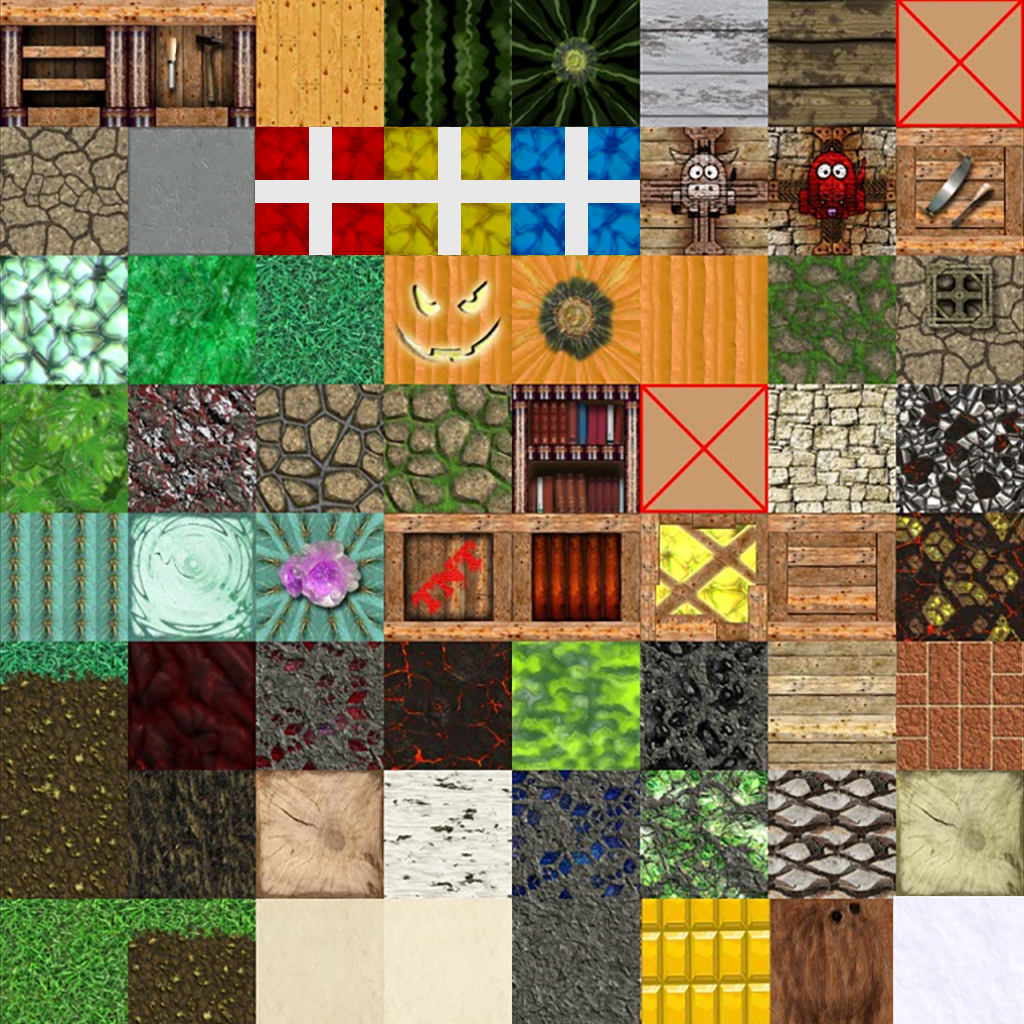
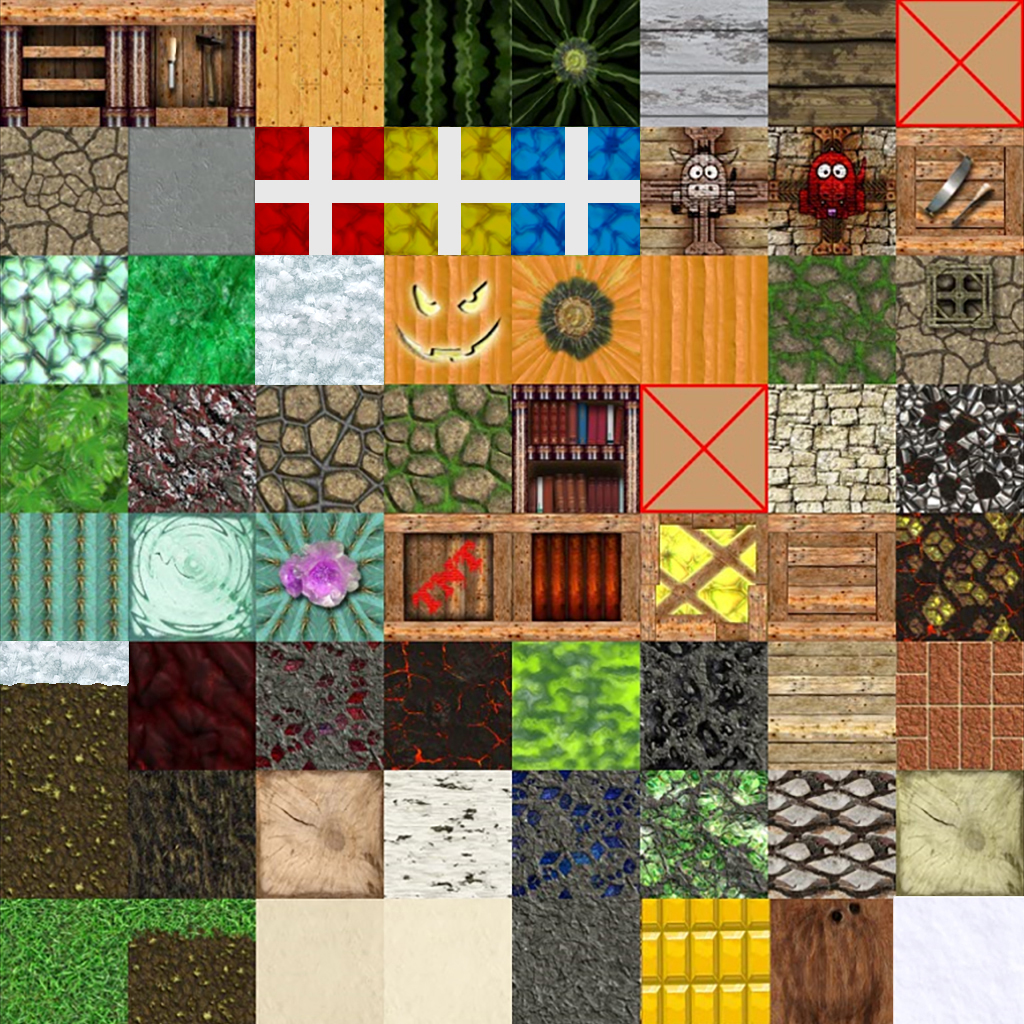
Oblig04_FINAL

Changed region(s): [[0.25, 0.25, 0.375, 0.375], [0.0, 0.625, 0.125, 0.6875]]

diff --git a/Scripts/app.js b/Scripts/app.js
@@ -86,7 +86,7 @@ var RunProgram = function(vertexShaderText, fragmentShaderText)
 
 	gl.enableVertexAttribArray(positionAttributeLocation);
 	gl.enableVertexAttribArray(normalAttributeLocation);
-	//gl.enableVertexAttribArray(tangentAttributeLocation);
+	gl.enableVertexAttribArray(tangentAttributeLocation);
 	gl.enableVertexAttribArray(texCoordAttributeLocation);
 
 	//Object uniforms
@@ -125,6 +125,7 @@ var RunProgram = function(vertexShaderText, fragmentShaderText)
 	images = [];
 	images.push(document.getElementById('cubeAtlas'));
 	images.push(document.getElementById('cubeAtlasSpecular'));
+	images.push(document.getElementById('cubeAtlasNormal'));
 
 	var textures = [];
 	for(var i = 0; i < images.length; i++)
@@ -148,7 +149,7 @@ var RunProgram = function(vertexShaderText, fragmentShaderText)
 
 	gl.uniform1i(mainTexLocation, 0);
 	gl.uniform1i(specTexLocation, 1);
-	console.log("MainTex: " + mainTexLocation + " SpecTex: " + specTexLocation)
+	gl.uniform1i(normalMapLocation, 2);
 
 	gl.bindTexture(gl.TEXTURE_2D, null);
 	/* 		TEXTURE CREATION END 	 */
@@ -165,7 +166,7 @@ var RunProgram = function(vertexShaderText, fragmentShaderText)
 	lights.push(light);
 
 	var light02 = new Light()
-	light02.transform.SetPosition(-10, 8, -10);
+	light02.transform.SetPosition(-8, 8, -8);
 	light02.SetColor(0.9, 0.1, 1);
 	light02.intensity = 0.5;
 	lights.push(light02);
@@ -228,6 +229,7 @@ var RunProgram = function(vertexShaderText, fragmentShaderText)
 			//deltaYgravity = Math.min(1, deltaYgravity + deltaTime);	
 		}
 
+		//lights[0].transform.Translate(-0.05, 0, 0.0);
 
 		//Smoother movement on camera
 		deltaXgravity *=0.90;
@@ -255,6 +257,8 @@ var RunProgram = function(vertexShaderText, fragmentShaderText)
 		gl.bindTexture(gl.TEXTURE_2D, textures[0]);
 		gl.activeTexture(gl.TEXTURE1);
 		gl.bindTexture(gl.TEXTURE_2D, textures[1]);
+		gl.activeTexture(gl.TEXTURE2);
+		gl.bindTexture(gl.TEXTURE_2D, textures[2]);
 
 		for(i = 0; i < gameObjects.length; i++)
 		{

diff --git a/Scripts/meshbase.js b/Scripts/meshbase.js
@@ -30,9 +30,9 @@ MeshBase.prototype.Init = function (typeOfBlock)
 	gl.bufferData(gl.ARRAY_BUFFER, new Float32Array(CreateBoxNormals()), gl.STATIC_DRAW); //What the bufferobject contains
 
 	// //Create vertex buffer object and bind it
-	// this.tangentBufferObject = gl.createBuffer();
-	// gl.bindBuffer(gl.ARRAY_BUFFER, this.tangentBufferObject);
-	// gl.bufferData(gl.ARRAY_BUFFER, new Float32Array(CreateBoxTangents()), gl.STATIC_DRAW); //What the bufferobject contains
+	this.tangentBufferObject = gl.createBuffer();
+	gl.bindBuffer(gl.ARRAY_BUFFER, this.tangentBufferObject);
+	gl.bufferData(gl.ARRAY_BUFFER, new Float32Array(CreateBoxTangents()), gl.STATIC_DRAW); //What the bufferobject contains
 
 
 	// Create TextureCoord buffer object and bind it
@@ -71,15 +71,15 @@ MeshBase.prototype.Render = function(positionAttributeLocation, normalAttributeL
 		0  // Offset from the beginning of a single vertex to this attribute
 		);
 
-	// gl.bindBuffer(gl.ARRAY_BUFFER, this.tangentBufferObject);
-	// gl.vertexAttribPointer(
-	// 	tangentAttributeLocation, //Attribute location
-	// 	3, //Number of elements per attribute
-	// 	gl.FLOAT, //type of elements
-	// 	gl.TRUE, //Normalized
-	// 	3 * Float32Array.BYTES_PER_ELEMENT, // Size of an individual vertex
-	// 	0  // Offset from the beginning of a single vertex to this attribute
-	// 	);
+	 gl.bindBuffer(gl.ARRAY_BUFFER, this.tangentBufferObject);
+		gl.vertexAttribPointer(
+	 	tangentAttributeLocation, //Attribute location
+	 	3, //Number of elements per attribute
+	 	gl.FLOAT, //type of elements
+	 	gl.TRUE, //Normalized
+	 	3 * Float32Array.BYTES_PER_ELEMENT, // Size of an individual vertex
+	 	0  // Offset from the beginning of a single vertex to this attribute
+	 	);
 
 	gl.bindBuffer(gl.ARRAY_BUFFER, this.texCoordBufferObject);
 	gl.vertexAttribPointer(

diff --git a/Scripts/meshFactory.js b/Scripts/meshFactory.js
@@ -221,3 +221,47 @@ function CreateBoxNormals()
 }
 
 
+function CreateBoxTangents()
+{
+	var boxTangents = [
+	//Top
+	1.0, 0.0, -1.0,
+	1.0, 0.0, -1.0,
+	1.0, 0.0, -1.0,
+	1.0, 0.0, -1.0,
+
+	//Left
+	0.0, 0.0, -1.0,
+	0.0, 0.0, -1.0,
+	0.0, 0.0, -1.0,
+	0.0, 0.0, -1.0,
+
+	//Right
+	0.0, 0.0, 1.0,
+	0.0, 0.0, 1.0,
+	0.0, 0.0, 1.0,
+	0.0, 0.0, 1.0,
+
+	//Back
+	0.0, -1.0, 0.0,
+	0.0, -1.0, 0.0,
+	0.0, -1.0, 0.0,
+	0.0, -1.0, 0.0,
+
+	//Front
+	0.0, 1.0, 0.0,
+	0.0, 1.0, 0.0,
+	0.0, 1.0, 0.0,
+	0.0, 1.0, 0.0,
+
+	//Bottom
+	0.0, 0.0, 1.0,
+	0.0, 0.0, 1.0,
+	0.0, 0.0, 1.0,
+	0.0, 0.0, 1.0
+	];
+	return boxTangents;
+}
+
+
+

diff --git a/index.html b/index.html
@@ -10,8 +10,9 @@
 			Your browser does not support HTML5
 		</canvas>
 		<br />
-		<img id = "cubeAtlas" src = "./Images/atlas2.jpg" width = "0" height = "0"></img>
+		<img id = "cubeAtlas" src = "./Images/atlas.jpg" width = "0" height = "0"></img>
 		<img id = "cubeAtlasSpecular" src = "./Images/atlasSpecular.jpg" width = "0" height = "0"></img>
+		<img id = "cubeAtlasNormal" src = "./Images/atlasNormal.jpg" width = "0" height = "0"></img>
 
 		<script src="./Common/MV.js"></script>
 		<script src="./Common/utils.js"></script>

diff --git a/Scripts/sceneCreation.js b/Scripts/sceneCreation.js
@@ -3,10 +3,11 @@ function CreateScene()
 	/*		SCENE CREATION START 	*/
 	var size = 5;
 	var flatLimit = 2;
+	var randomRot = 0;
 	for(z = -size; z <= size; z++)
 	{
 		for(x = -size; x <= size; x++)
-		{
+		{	
 			var y = 0;
 			//The flat ground around the tree
 			if((Math.abs(z) == flatLimit && Math.abs(x) <= flatLimit) || (Math.abs(x) == flatLimit && Math.abs(z) <= flatLimit))
@@ -38,8 +39,6 @@ function CreateScene()
 			}
 		}
 	}
-
-	
 
 	//Tree Construction
 	//Trunk

diff --git a/Scripts/material.js b/Scripts/material.js
@@ -3,5 +3,5 @@ function Material()
 {
 	this.color = vec4(1.0,1.0,1.0,1.0);
 	this.ambient = vec4(0.1,0.1,0.3,1.0);
-	this.shinyness = 20.0;
+	this.shinyness = 100.0;
 }
